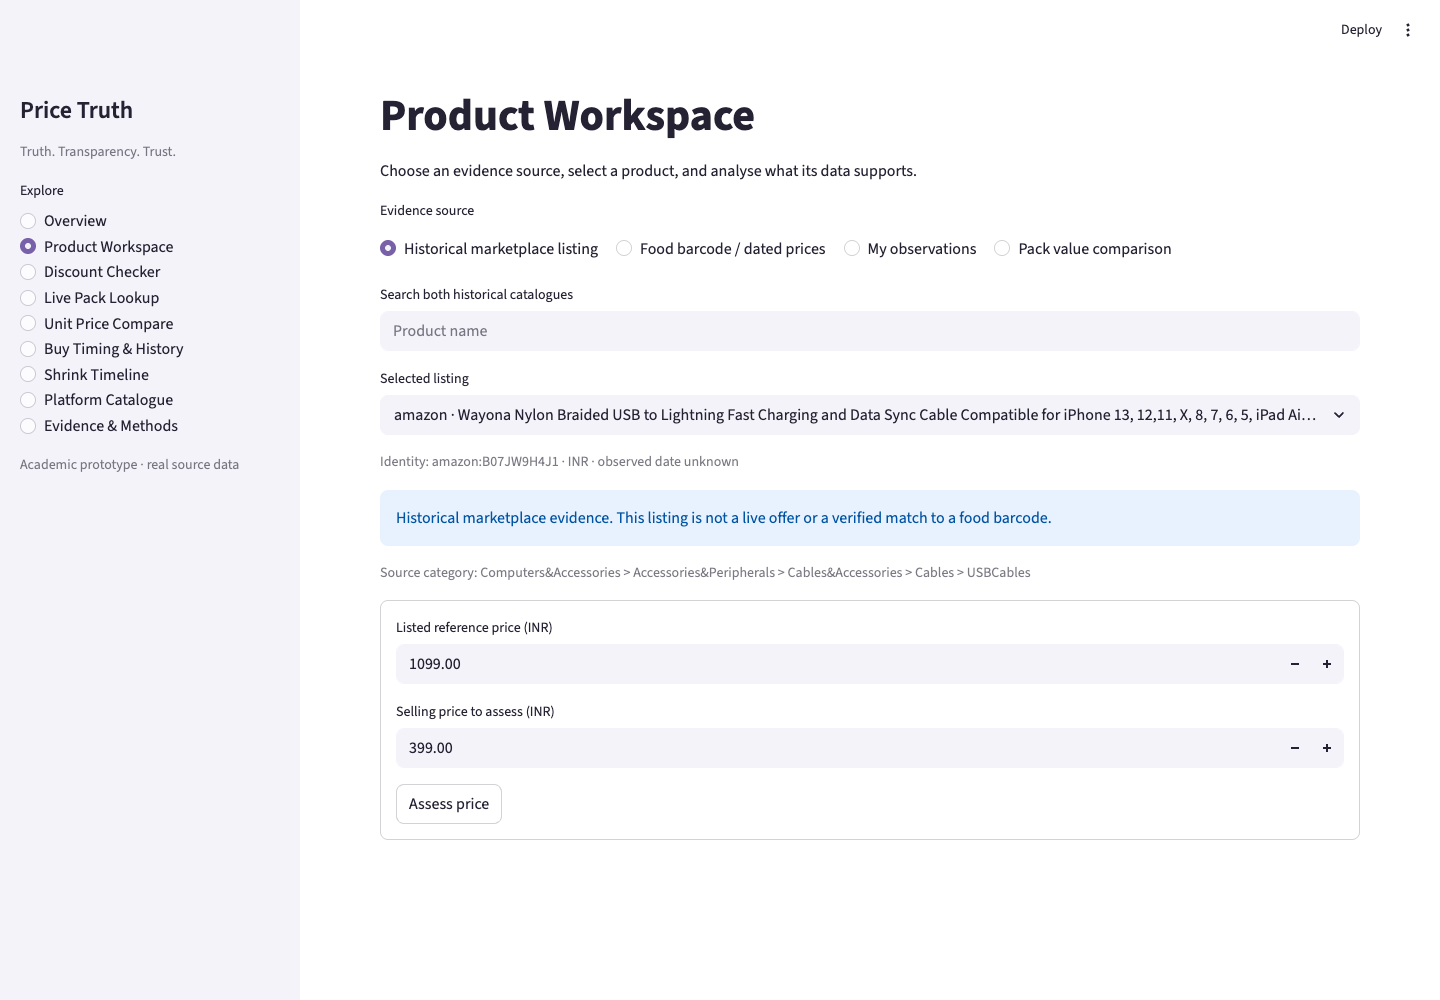
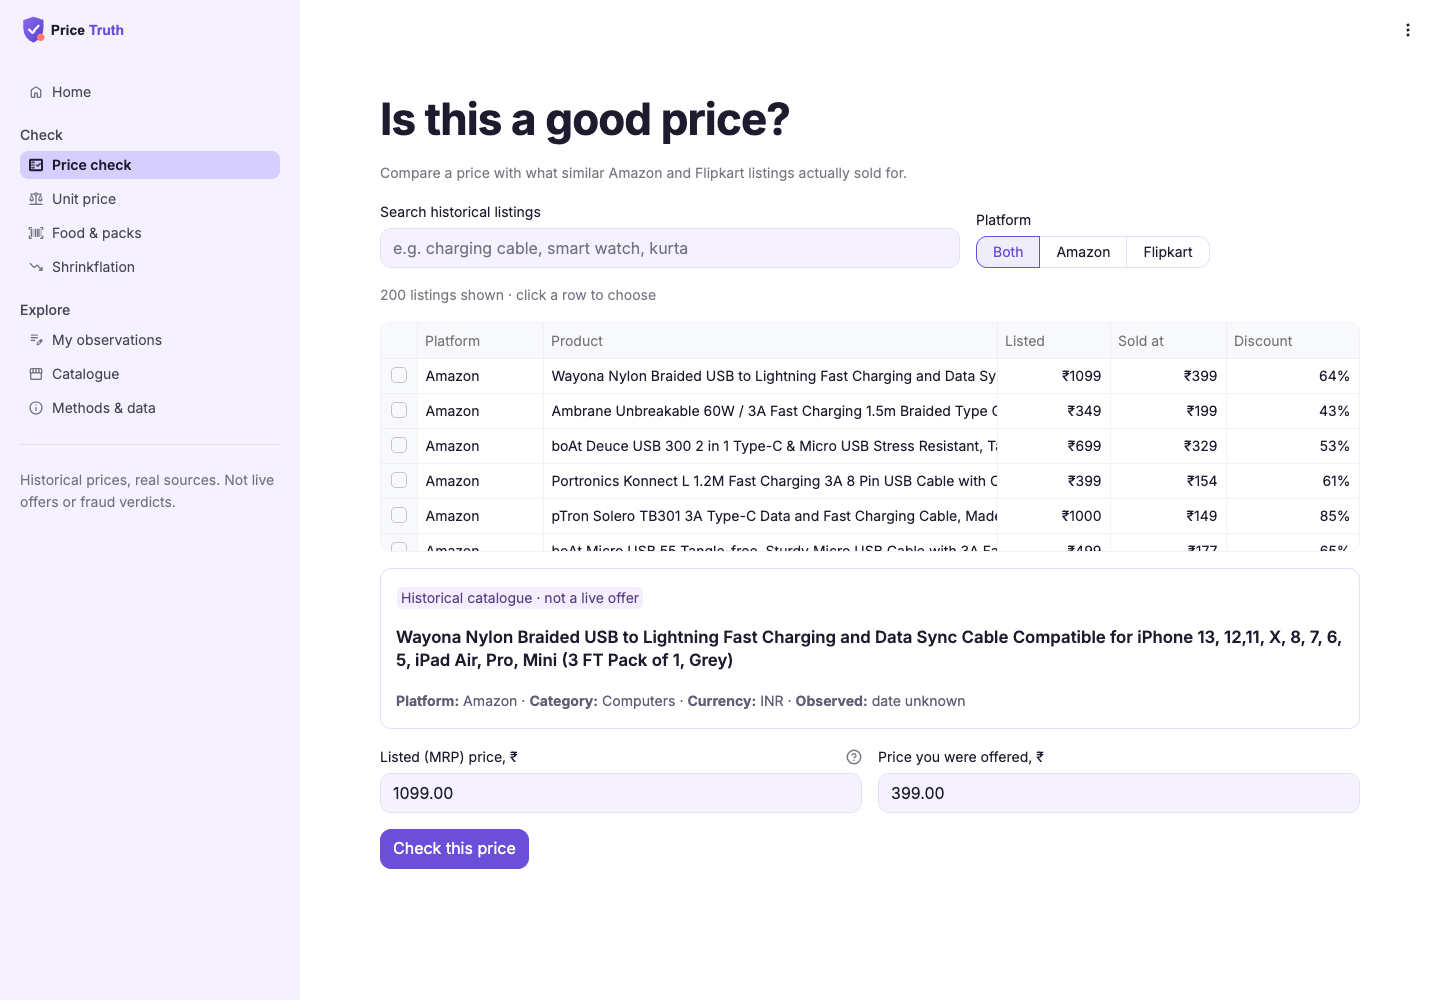
Browser checks for new navigation with axe-core scan; caption contrast to WCAG AA; robust container health retry

diff --git a/scripts/browser_current.py b/scripts/browser_current.py
@@ -1,4 +1,8 @@
-"""Portable Chrome workflow checks with explicit viewport coverage and retained evidence."""
+"""Browser workflow, viewport and accessibility checks with retained evidence.
+
+PRICE_TRUTH_URL selects the app (default local). For Streamlit Community Cloud use the
+app's inner URL, e.g. https://<name>.streamlit.app/~/+  (the outer page is an iframe wrapper).
+"""
 import argparse
 import json
 import os
@@ -11,29 +15,70 @@ from playwright.sync_api import sync_playwright
 from price_truth.paths import REPORTS
 
 OUT = REPORTS / "current"
+AXE = "https://cdn.jsdelivr.net/npm/axe-core@4.10.3/axe.min.js"
 
 
-def check_workspace(page, out: Path = OUT) -> None:
-    """Exercise the connected real-model flow through visible controls."""
-    page.get_by_test_id("stSidebar").get_by_text("Product Workspace", exact=True).click()
-    page.get_by_role("heading", name="Product Workspace", exact=True).wait_for()
-    page.get_by_role("button", name="Assess price", exact=True).click()
-    page.get_by_text("Advertised discount", exact=True).wait_for()
-    download_button = page.get_by_role("button", name="Download assessment PDF", exact=True)
-    download_button.wait_for()
+def visit(page, base: str, path: str, heading: str) -> None:
+    """Open one page by URL and wait for its heading."""
+    page.goto(f"{base}/{path}")
+    page.get_by_role("heading", name=heading).first.wait_for(timeout=60_000)
+
+
+def check_price(page, base: str, out: Path) -> None:
+    """Real model flow: verdict, charts and an actual PDF download."""
+    visit(page, base, "product", "Is this a good price?")
+    page.get_by_role("button", name="Check this price", exact=True).click()
+    page.get_by_text("Advertised discount", exact=True).wait_for(timeout=60_000)
+    page.get_by_text("What moved the estimate").first.wait_for()
+    download = page.get_by_role("button", name="Download PDF report", exact=True)
     page.screenshot(path=str(out / "workspace-desktop.png"), full_page=True)
     with page.expect_download() as pending:
-        download_button.click()
+        download.click()
     pending.value.save_as(str(out / "browser-assessment.pdf"))
     assert (out / "browser-assessment.pdf").read_bytes().startswith(b"%PDF-")
 
 
-def check_viewports(page, out: Path = OUT) -> list:
-    """Measure overflow at three viewports; do not call emulation a physical-device test."""
+def check_unit(page, base: str) -> None:
+    """Unit comparison with typed values produces a best-value verdict."""
+    visit(page, base, "compare", "Which pack is better value?")
+    for label, value in [("Price (INR)", "10"), ("Quantity per pack", "100")]:
+        fields = page.get_by_label(label)
+        fields.nth(0).fill(value)
+        fields.nth(1).fill(str(float(value) * (1.5 if label.startswith("Price") else 2)))
+    page.get_by_role("button", name="Compare value").click()
+    page.get_by_text("Option 2 is the best value").wait_for(timeout=30_000)
+
+
+def check_food_and_shrink(page, base: str) -> None:
+    """Saved food data and the documented shrinkflation case render."""
+    visit(page, base, "food", "Look up a food pack")
+    page.get_by_text("Saved responses only").click()
+    page.get_by_text("Pack size:").first.wait_for(timeout=30_000)
+    visit(page, base, "shrink", "Same price, smaller pack")
+    page.get_by_text("Hidden price increase").wait_for()
+
+
+def accessibility(page, base: str) -> list:
+    """Run axe-core on each page; report serious and critical WCAG A/AA violations."""
+    found = []
+    for path, heading in [("", "Know what a price really means"), ("product", "Is this a good price?"),
+                          ("compare", "Which pack is better value?"), ("methods", "Methods, data and limits")]:
+        visit(page, base, path, heading)
+        page.wait_for_timeout(800)
+        page.add_script_tag(url=AXE)
+        report = page.evaluate("axe.run(document, {runOnly: ['wcag2a', 'wcag2aa']})")
+        found += [{"page": path or "home", "rule": v["id"], "impact": v["impact"], "nodes": len(v["nodes"])}
+                  for v in report["violations"] if v["impact"] in ("serious", "critical")]
+    return found
+
+
+def check_viewports(page, base: str, out: Path) -> list:
+    """Measure horizontal overflow at three viewports; emulation is not a physical-device test."""
     results = []
+    visit(page, base, "product", "Is this a good price?")
     for width, height in [(1440, 1000), (768, 1024), (390, 844)]:
         page.set_viewport_size({"width": width, "height": height})
-        page.wait_for_timeout(400)
+        page.wait_for_timeout(500)
         page.screenshot(path=str(out / f"workspace-{width}.png"), full_page=True)
         overflow = page.evaluate("document.documentElement.scrollWidth > window.innerWidth")
         results.append({"width": width, "height": height, "horizontal_page_overflow": overflow})
@@ -41,30 +86,38 @@ def check_viewports(page, out: Path = OUT) -> list:
 
 
 def main() -> None:
-    """Exercise the local browser and save completed check evidence."""
+    """Exercise the app in one browser engine and save the evidence."""
     parser = argparse.ArgumentParser(description=__doc__)
     parser.add_argument("--browser", choices=["chrome", "firefox", "webkit"], default="chrome")
     args = parser.parse_args()
-    out = OUT if args.browser == "chrome" else OUT / args.browser
+    base = os.environ.get("PRICE_TRUTH_URL", "http://127.0.0.1:8501").rstrip("/")
+    hosted = not base.startswith(("http://127.0.0.1", "http://localhost"))
+    out = (OUT / "hosted" if hosted else OUT) / ("" if args.browser == "chrome" else args.browser)
     out.mkdir(parents=True, exist_ok=True)
     mac_chrome = "/Applications/Google Chrome.app/Contents/MacOS/Google Chrome"
     executable = os.environ.get("PRICE_TRUTH_CHROME") or (mac_chrome if Path(mac_chrome).exists() else None)
     with sync_playwright() as playwright:
         engine = playwright.chromium if args.browser == "chrome" else getattr(playwright, args.browser)
         browser = engine.launch(executable_path=executable if args.browser == "chrome" else None, headless=True)
-        page = browser.new_page(viewport={"width": 1440, "height": 1000})
+        page = browser.new_page(viewport={"width": 1440, "height": 1000}, accept_downloads=True)
         errors = []
         page.on("pageerror", lambda error: errors.append(str(error)))
         start = time.perf_counter()
-        page.goto(os.environ.get("PRICE_TRUTH_URL", "http://127.0.0.1:8501"))
-        page.get_by_role("heading", name="Know what your price means").wait_for()
-        load_seconds = time.perf_counter()-start
-        check_workspace(page, out)
-        viewports = check_viewports(page, out)
-        result = {"generated_at": datetime.now(UTC).isoformat(), "browser": browser.version,
-                  "initial_visible_load_seconds": load_seconds, "javascript_errors": errors,
-                  "viewports": viewports, "flows": ["overview", "workspace real assessment", "actual PDF download"],
-                  "scope": f"Local {args.browser}, three viewport emulations. WebKit is not branded Safari. No physical devices tested."}
+        visit(page, base, "", "Know what a price really means")
+        load_seconds = time.perf_counter() - start
+        check_price(page, base, out)
+        check_unit(page, base)
+        check_food_and_shrink(page, base)
+        violations = accessibility(page, base) if args.browser == "chrome" else None
+        viewports = check_viewports(page, base, out)
+        result = {"generated_at": datetime.now(UTC).isoformat(), "url": base, "browser": browser.version,
+                  "engine": args.browser, "initial_visible_load_seconds": load_seconds,
+                  "javascript_errors": errors, "viewports": viewports,
+                  "accessibility_serious_or_critical": violations,
+                  "flows": ["home", "price check with real model and PDF download", "unit comparison",
+                            "offline food lookup", "shrinkflation case"],
+                  "scope": f"{'Hosted' if hosted else 'Local'} {args.browser}; three viewport emulations. "
+                           "WebKit is not branded Safari; emulation is not a physical device."}
         (out / "browser_check.json").write_text(json.dumps(result, indent=2))
         browser.close()
         assert not errors and not any(v["horizontal_page_overflow"] for v in viewports), result

diff --git a/src/price_truth/theme.py b/src/price_truth/theme.py
@@ -46,6 +46,7 @@ h1 { letter-spacing: -0.02em; }
 .pt-stat-label { color:var(--pt-muted); font-size:.85rem; }
 [data-testid="stNumberInputStepUp"], [data-testid="stNumberInputStepDown"] { display:none; }
 [data-testid="stMetricValue"] { font-weight:700; }
+[data-testid="stCaptionContainer"], [data-testid="stCaptionContainer"] p { color: #5F5B71 !important; opacity: 1 !important; }
 a:focus-visible, button:focus-visible, [role="tab"]:focus-visible { outline: 3px solid #8E6CF2 !important;
   outline-offset: 2px; }
 @media (prefers-reduced-motion: reduce) { * { animation: none !important; transition: none !important; } }
